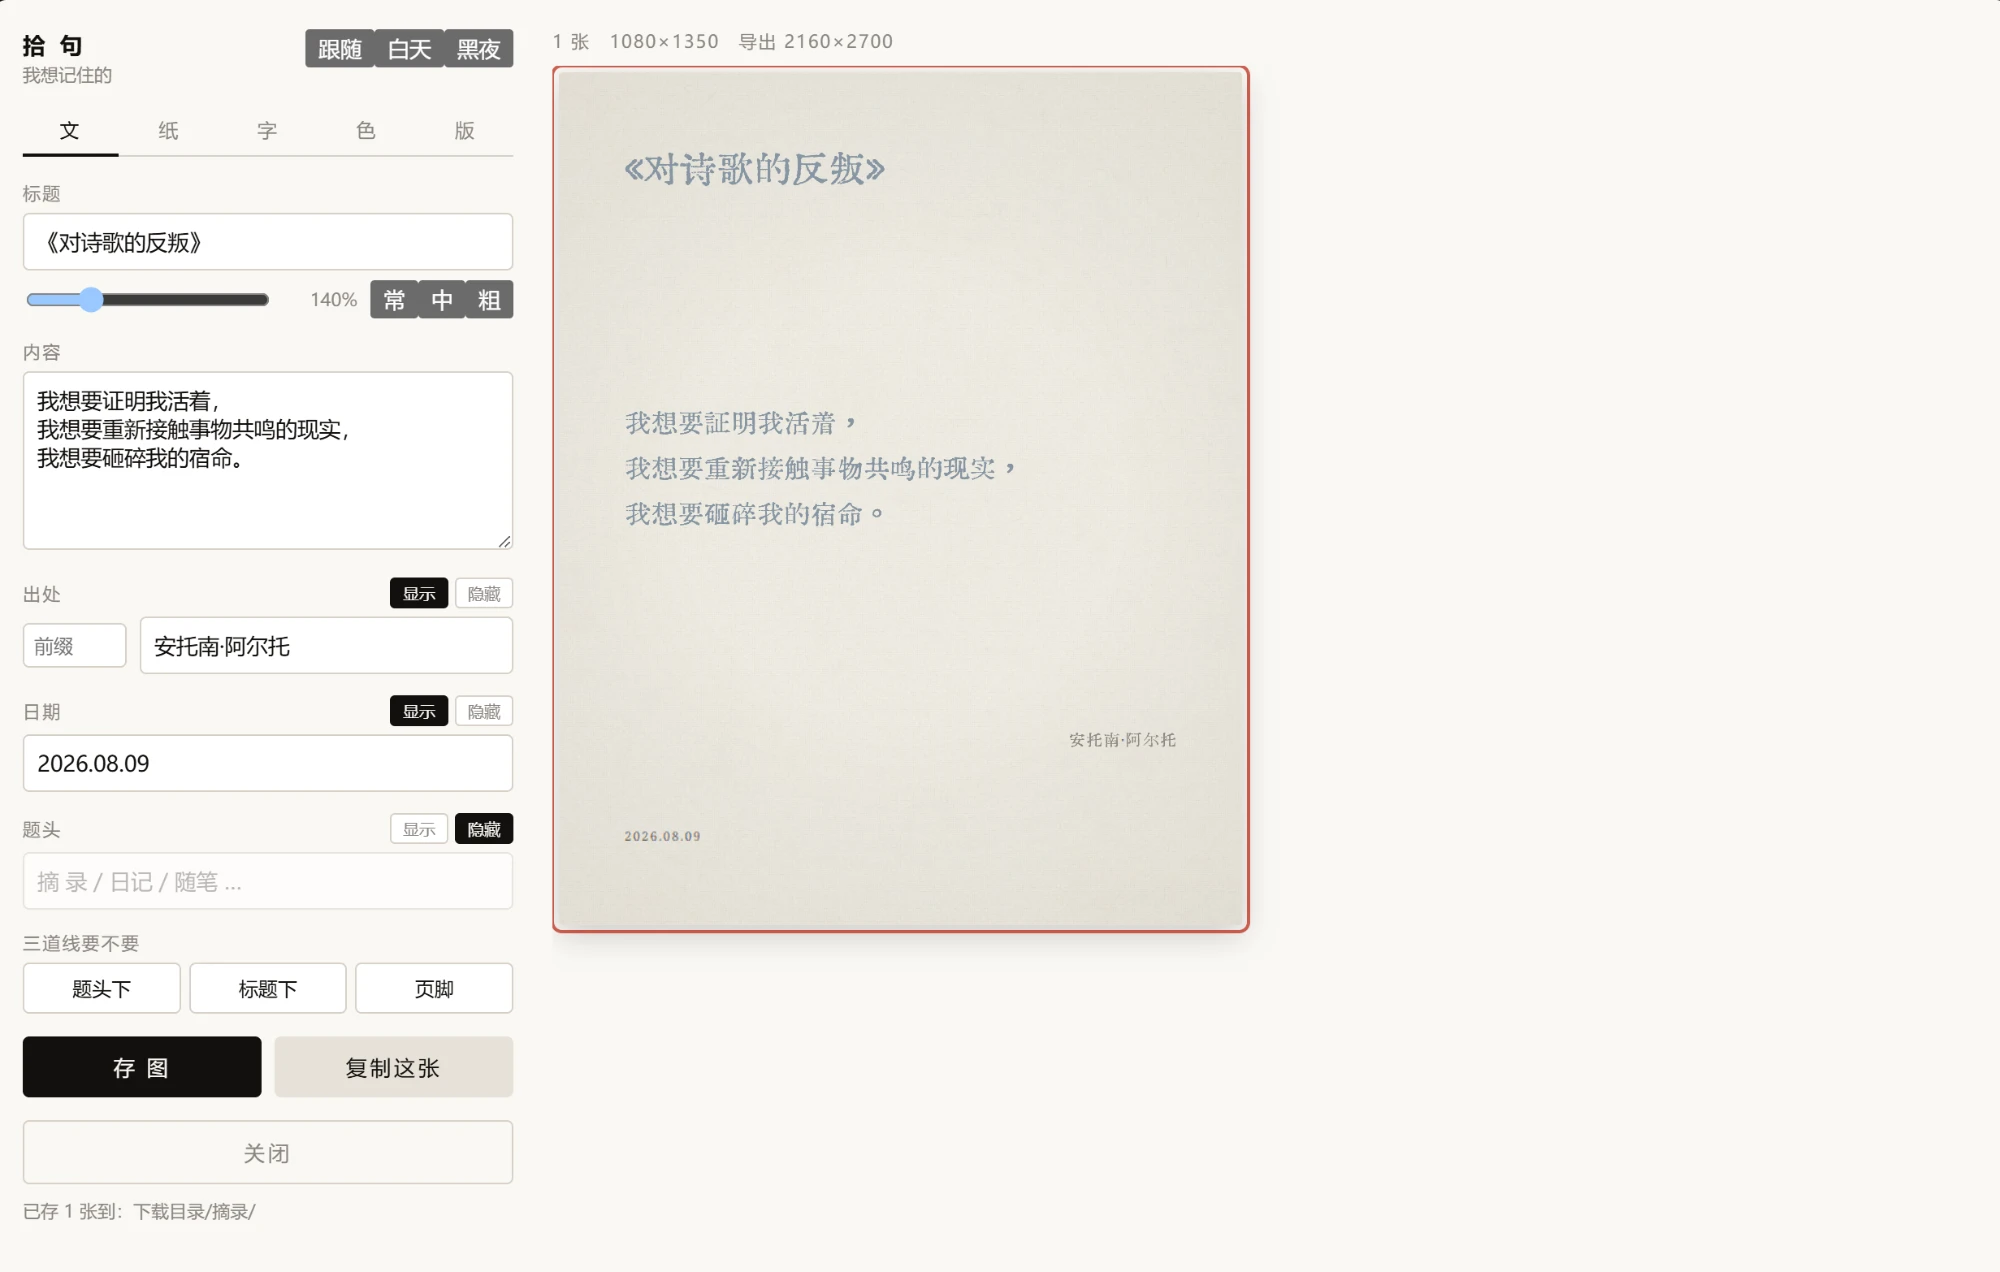
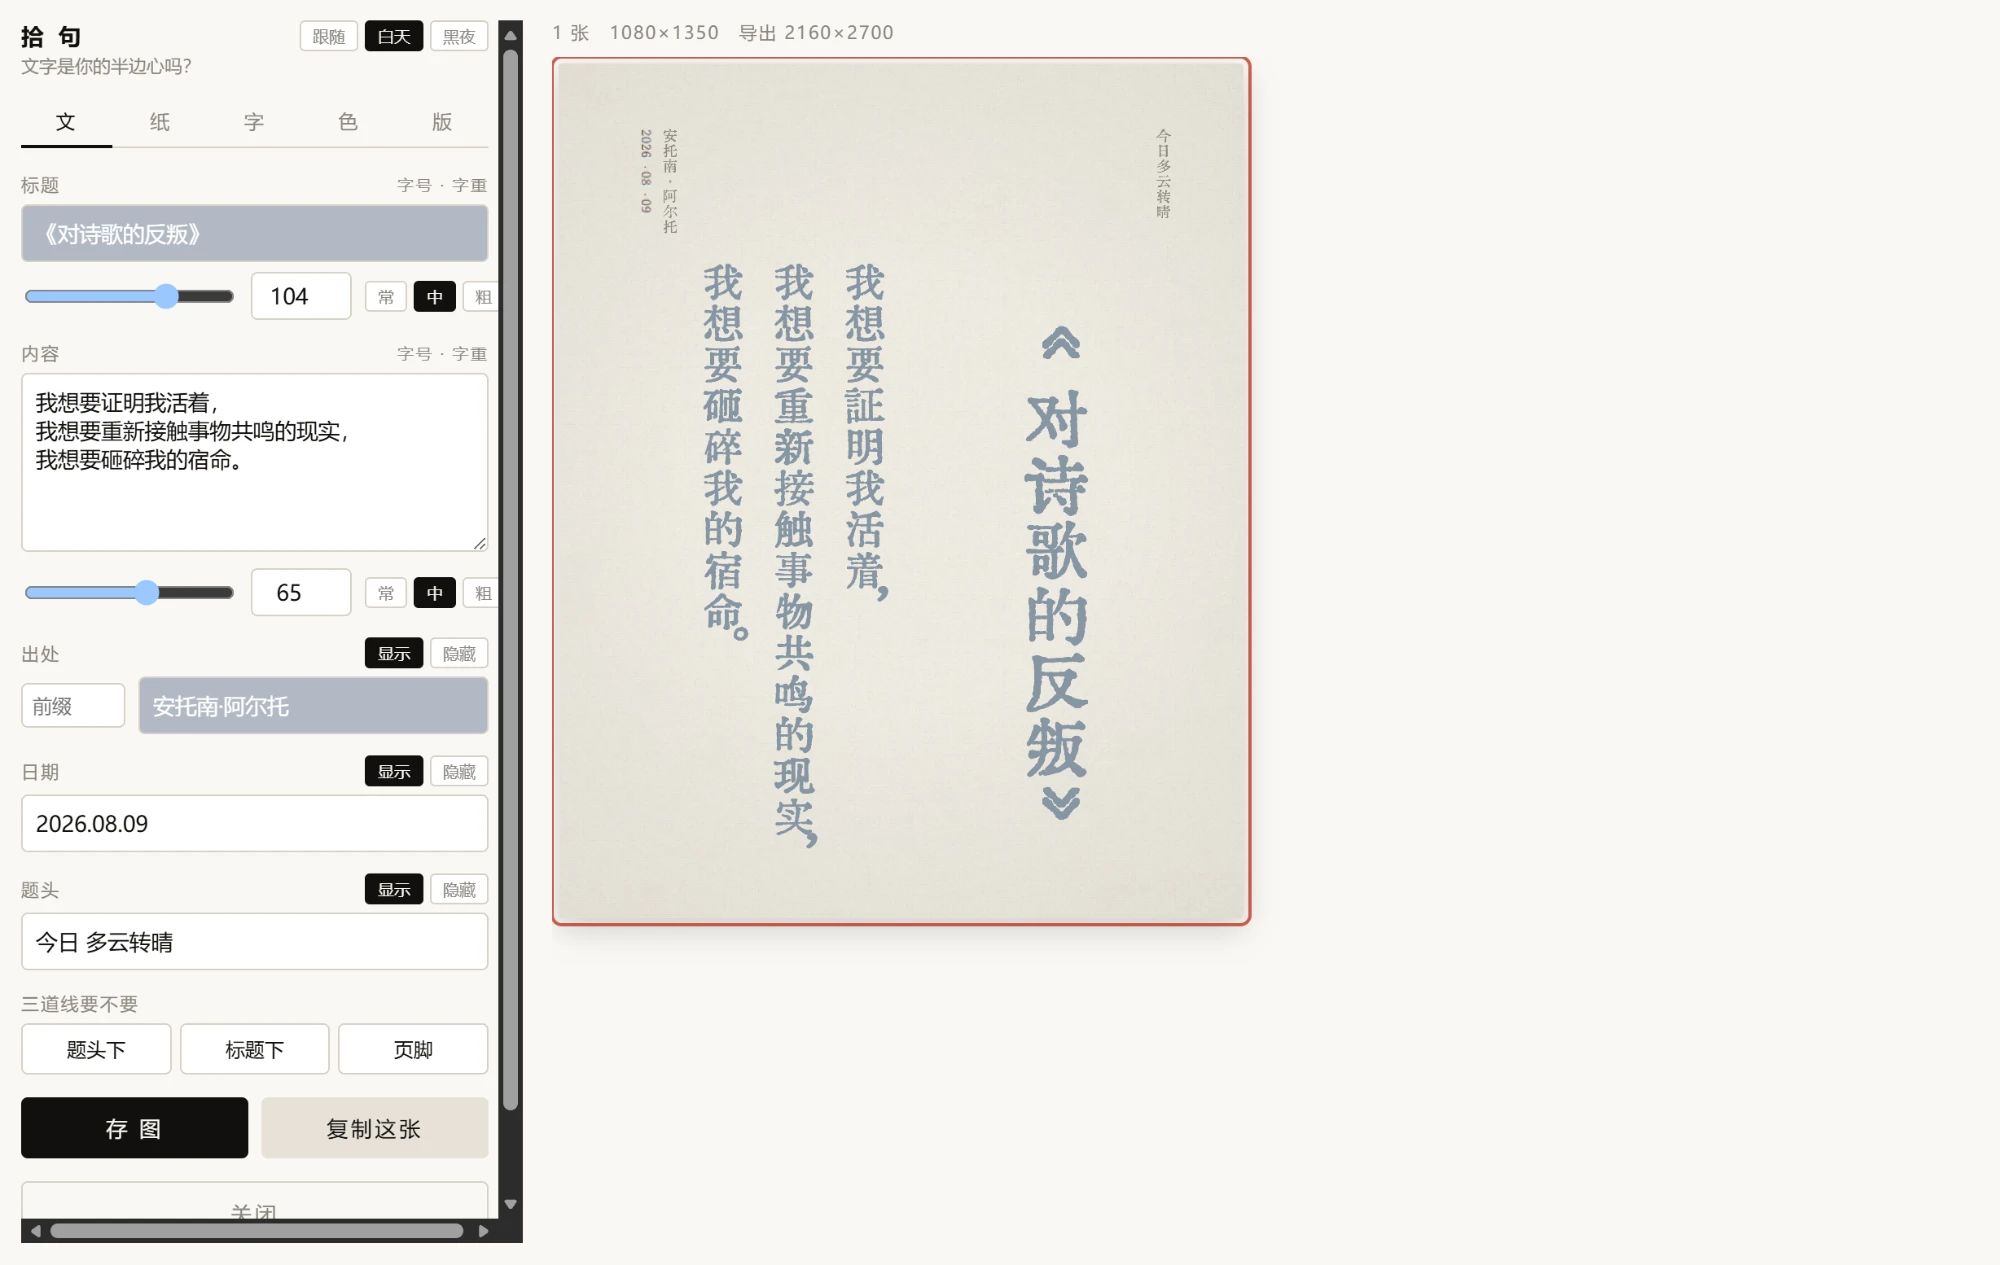
v0.16.2：iOS 上其实是「能用但记不住」，补上
她 iPhone 实机跑通之后问了一句「不选文字怎么空手唤出来」，顺着查出三件事。

【iOS 根本没在存设置】
Userscripts 只提供异步的 GM.getValue/GM.setValue，**没有**同步的
GM_getValue/GM_setValue。原来那两行直接调，每次都落进 catch 返回默认值 ——
表现就是「改了纸改了字，换一页全没了」，而且一声不吭。
现在探不到 GM 存储就退到 localStorage。⚠ 两者不等价：GM 存储跨网站共享，
localStorage 按站点分家、只有 ~5MB，README 和自检都如实写明。
顺带：素材包存不下时，先在内存里留住这一份（当次能用），文案照事实说
「换一页要重导」，不再谎报「以后不用再导」。

【手机上空手起稿没有入口】
没有 Alt 键，iOS 也没有脚本菜单（不支持 GM_registerMenuCommand）。
加三指轻点：网页用不到这个手势，iOS 系统的三指手势只在输入框里管撤销重做，
所以在输入框上让开。按久了、划开了都不算。

【「文」屏那两行顶破侧栏】
range 的 min-width 是 auto，撑在自己 129px 的固有宽度上不肯缩，
一行需要 297px 而侧栏只有 287px —— 底下冒出横向滚动条，还压住了「关闭」。
加 min-width:0。（她的截图里能直接看到那条滚动条。）

验证：新增 _selftest-ios.html，照 Userscripts 的能力打桩（只给异步 GM.*，
不给 GM_getValue/GM_setValue/GM_download/GM_registerMenuCommand）。
在它上面验到：三指轻点开白纸、设置写进 localStorage 且刷新后还在、
存图走 <a download> 兜底（在原型上打桩确认真的点了）。
桌面那边回归：仍走 GM 存储、没污染 localStorage、不溢出、存图正常，两边控制台零报错。

同批换上她重截的三张面板图（webp/2000px）。

diff --git a/shiju.user.js b/shiju.user.js
@@ -1,7 +1,7 @@
 // ==UserScript==
 // @name         拾句 · 网页摘录成图
 // @namespace    https://github.com/willwefind/shiju
-// @version      0.16.1
+// @version      0.16.2
 // @description  在任意网页上选中一段文字，把它排成纸上的摘录，存到本地。可换纸换字、横竖版、多页拆分。
 // @author       willwefind & Ciel
 // @match        *://*/*
@@ -52,8 +52,32 @@ const DEF = {
   subdir: '摘录',
   myPapers: [], myFonts: [],
 };
-const cfg    = k => { try { const v = GM_getValue(k); return v === undefined ? DEF[k] : v; } catch { return DEF[k]; } };
-const setCfg = (k, v) => { try { GM_setValue(k, v); } catch (e) { console.warn('[拾句] 存不下设置：', e.message); } };
+// 🔴 iOS 上的 Userscripts **没有**同步的 GM_getValue/GM_setValue（它只给异步的 GM.getValue）。
+//    照原样直接调，每次都落到 catch 里返回默认值 —— 表现是「改了纸改了字，换一页全没了」，
+//    而且一声不吭。探不到 GM 存储就退到 localStorage。
+// ⚠ 两者不等价：GM 存储跨网站共享，localStorage 按站点分家（每个网站要各设一次），
+//    而且只有 ~5MB，3MB 的信纸素材包多半塞不进去。这些都在自检里如实说。
+const hasGM = (() => {
+  try { return typeof GM_getValue === 'function' && typeof GM_setValue === 'function'; }
+  catch { return false; }
+})();
+const LSK = 'shiju:';
+// 存了什么就返回什么，没存过返回 undefined —— 「没存过」和「存了个默认值」得分得开
+const rawCfg = k => {
+  try {
+    if (hasGM) return GM_getValue(k);
+    const s = localStorage.getItem(LSK + k);
+    return s === null ? undefined : JSON.parse(s);
+  } catch { return undefined; }
+};
+const cfg = k => { const v = rawCfg(k); return v === undefined ? DEF[k] : v; };
+// 返回「到底存下没有」—— localStorage 会因为超配额而失败，失败了就得让人知道
+const setCfg = (k, v) => {
+  try {
+    if (hasGM) GM_setValue(k, v); else localStorage.setItem(LSK + k, JSON.stringify(v));
+    return true;
+  } catch (e) { console.warn('[拾句] 存不下设置：', e.message); return false; }
+};
 
 // 一次性迁移：标题字号从「正文的百分比」改成绝对像素。
 // 🔴 两种表示法并存必然对不上（同一件事写两套算法），所以迁完就把 titleScale 彻底扔掉，
@@ -61,11 +85,12 @@ const setCfg = (k, v) => { try { GM_setValue(k, v); } catch (e) { console.warn('
 (function migrateTitleSize(){
   const px = (base, scale) => Math.round((base === undefined ? DEF.fontSize : base) * scale / 100);
   try {
-    if (GM_getValue('titleSize') === undefined && GM_getValue('titleScale') !== undefined)
-      GM_setValue('titleSize', px(GM_getValue('fontSize'), GM_getValue('titleScale')));
-    const ps = GM_getValue('presets');
+    // 走 rawCfg/setCfg，别再直接摸 GM_* —— 那两个在 iOS 上根本不存在
+    if (rawCfg('titleSize') === undefined && rawCfg('titleScale') !== undefined)
+      setCfg('titleSize', px(rawCfg('fontSize'), rawCfg('titleScale')));
+    const ps = rawCfg('presets');
     if (Array.isArray(ps) && ps.some(p => p && p.style && p.style.titleScale !== undefined))
-      GM_setValue('presets', ps.map(p => {
+      setCfg('presets', ps.map(p => {
         if (!p || !p.style || p.style.titleScale === undefined) return p;
         const style = { ...p.style };
         style.titleSize = px(style.fontSize, style.titleScale);
@@ -1045,7 +1070,9 @@ input[type=text]:disabled{opacity:.5}
 .flist button i{font-style:normal;font-size:10px;opacity:.6;font-family:-apple-system,sans-serif;margin-left:auto}
 .sub{font-size:10px;color:var(--dim);margin:10px 0 4px;letter-spacing:.08em}
 .fs{display:flex;gap:8px;align-items:center}
-.fs input[type=range]{flex:1}
+/* min-width:0 —— 少了它，range 撑在自己 129px 的固有宽度上不肯缩，
+   「滑块＋数字框＋常中粗」这一行就顶破 308px 的侧栏，底下冒出一条横向滚动条。 */
+.fs input[type=range]{flex:1;min-width:0}
 .fs input[type=number]{width:62px;border:1px solid var(--line);border-radius:4px;padding:5px 6px;
      font:13px inherit;text-align:center;color:var(--fg);background:var(--field)}
 .fs .val{width:44px;text-align:right;font-size:11px;color:var(--dim)}
@@ -1636,7 +1663,10 @@ function openPanel(text){
           const r = new FileReader(); r.onload = () => res(r.result); r.onerror = rej; r.readAsText(files[0]);
         });
         const n = await installPack(text);
-        tipEl.textContent = `装好了：${n} 套（横竖各一张）。以后不用再导。`;
+        // 收尾这句必须照事实说 —— 存不下的时候「以后不用再导」就是句谎话
+        tipEl.textContent = installPack.persisted
+          ? `装好了：${n} 套（横竖各一张）。以后不用再导。`
+          : `这次能用：${n} 套。但存不下来（浏览器给脚本的空间不够装这么大的包），换一页要重导。`;
         buildPapers(); sync(); draw();
       } catch (e){ tipEl.textContent = '这个素材包读不了：' + e.message; }
     };
@@ -1878,7 +1908,11 @@ async function installPack(text){
   const data = JSON.parse(text);
   const sets = (data.sets || []).filter(s => s.key && (s.portrait || s.landscape));
   if (!sets.length) throw new Error('这个文件里没有可用的信纸');
-  setCfg('packs', sets); _packs = null; packImgs.clear(); meanCache.clear();
+  // 先把这一份记在内存里，再谈存不存得下 —— 存不下（localStorage 只有 ~5MB）也不该
+  // 让刚导进来的纸当场消失。存不下的话回头告诉用户「这次能用，下次还得再导」。
+  const kept = setCfg('packs', sets);
+  _packs = sets; packImgs.clear(); meanCache.clear();
+  installPack.persisted = kept;
   // 等图真的解码完再说「装好了」，不然点开一张纸是白的
   await Promise.all(sets.flatMap(s => ['portrait','landscape'].map(o => new Promise(r => {
     const im = packImg(s.key, o); if (!im || im.complete) return r();
@@ -1931,14 +1965,39 @@ document.addEventListener('keydown', e => {
   }
 }, true);
 
+// 三指轻点 = 手机上的 Alt+Q。
+// 🔴 手机没有 Alt 键，而 iOS 的 Userscripts **不支持 GM_registerMenuCommand**，
+//    也就没有脚本菜单可点 —— 空手起稿在手机上原本一个入口都没有。
+//    选三指：网页几乎用不到这个手势，iOS 系统的三指手势只在可编辑区域里管撤销/重做，
+//    所以在输入框里一律让开。
+let tri = null;
+document.addEventListener('touchstart', e => {
+  if (mask) { tri = null; return; }
+  const t = e.target;
+  const editing = t && (t.tagName === 'INPUT' || t.tagName === 'TEXTAREA' || t.isContentEditable);
+  tri = (e.touches.length === 3 && !editing)
+    ? { t: Date.now(), x: e.touches[0].clientX, y: e.touches[0].clientY } : null;
+}, true);
+document.addEventListener('touchend', e => {
+  if (!tri || e.touches.length) return;          // 还有手指没抬起来，等
+  const { t, x, y } = tri; tri = null;
+  if (mask || Date.now() - t > 700) return;      // 按久了就不算「轻点」
+  const c = e.changedTouches[0];
+  if (c && Math.hypot(c.clientX - x, c.clientY - y) > 40) return;   // 划走了也不算
+  if (pill) pill.hidden = true;
+  openPanel(String(getSelection() || '').trim());
+}, true);
+
 // 自检：脚本要么大声说话，要么就该被看见。别再出现「选中没反应，但不知道死在哪」。
 function selfCheck(){
   alert([
     '拾句 自检', '',
-    '脚本版本：0.16.1',
+    '脚本版本：0.16.2',
     `当前页面：${location.href.slice(0, 70)}`,
     `在 iframe 里：${window.top !== window.self ? '是（脚本声明了 @noframes，不在 iframe 里跑）' : '否'}`,
-    `GM_download：${typeof GM_download === 'function' ? '有' : '没有（油猴没授权？）'}`,
+    `GM_download：${typeof GM_download === 'function' ? '有' : '没有 —— 走浏览器自己的下载，一样能存图'}`,
+    `设置存在哪：${hasGM ? 'GM 存储（所有网站共用一份）' : '这个网站自己的 localStorage（跨网站不共享，得每个站各设一次）'}`,
+    `脚本菜单：${typeof GM_registerMenuCommand === 'function' ? '有' : '没有（iOS 的 Userscripts 就没有）—— 空手起稿请用三指轻点'}`,
     `面板容器：${host && host.isConnected ? '已挂上' : '还没挂（选中文字才会建）'}`,
     `你现在选中了：${String(window.getSelection() || '').trim().slice(0, 24) || '（什么都没选）'}`,
     `系统里能用的字：${FONTS.filter(fontAvailable).map(f => f.name).join('、')}`,
@@ -1946,7 +2005,7 @@ function selfCheck(){
     `你自己加的纸：${cfg('myPapers').length} 张　字：${cfg('myFonts').length} 款`,
     '',
     '看到这个框，说明脚本在这一页是活的。',
-    '不用先选文字：按 Alt+Q，或者用油猴菜单里的「写点什么」，直接开一张白纸。',
+    '不用先选文字就开一张白纸：电脑按 Alt+Q 或用油猴菜单；手机三指轻点屏幕。',
     '选中文字没反应，多半是这页在你装脚本之前就开着了 —— 按 F5。',
     '字体装了却还是灰的 —— 要完全退出浏览器再开，Chrome 系不热加载字体列表。',
   ].join('\n'));
@@ -1968,7 +2027,7 @@ try {
   });
 } catch {}
 
-console.log('[拾句] 0.16.1 已在这一页启动。选中文字会冒出「摘」；不选也行，按 Alt+Q 开一张白纸。');
+console.log('[拾句] 0.16.2 已在这一页启动。选中文字会冒出「摘」；不选也行 —— 电脑按 Alt+Q，手机三指轻点。');
 window.__shiju = { planPages, renderPage, makePaper, wrap, paginate, buildItems, shade, strokeFor, inkColorOf,
                    hasFont, fontStack, cjkStack, fontAvailable, resolveFont, titleBlock, chrome,
                    PAPERS, FONTS, LATIN, INKS, SIZES,

diff --git a/README.md b/README.md
@@ -97,10 +97,11 @@ Claude、ChatGPT、小红书、SillyTavern、任何网页都能用。
 
 ## 装在手机上（iPhone / 安卓）
 
-> ⚠ **这一节没有在真手机上走过。** 面板的手机版排布是在电脑浏览器的手机模拟下量出来的
-> （375px 宽：预览图在上、控制在下、整张卡片一眼看得全、不横向溢出、手指能拖动整块位移）。
-> 装脚本那几步照的是各家脚本管理器自己的文档。
-> 你要是在真机上走通了或者卡住了，欢迎来提 issue，我们照实改这一节。
+> ✅ **iPhone 实机走通过**（Safari + Userscripts：装脚本 → 刷新 → 选中文字 → 出图）。
+> ⚠ **安卓没有实机验过**，那一节照的是各浏览器自己的文档。
+> 面板的手机版排布是在电脑浏览器的手机模拟下量的（375px：预览在上、控制在下、
+> 整张卡片一眼看得全、不横向溢出、手指能拖动整块位移）。
+> 你要是卡住了，欢迎来提 issue，我们照实改这一节。
 
 ### iPhone / iPad
 
@@ -129,11 +130,23 @@ Claude、ChatGPT、小红书、SillyTavern、任何网页都能用。
 >
 > Userscripts 需要 **iOS 15.1 以上**。
 
-**4. 用**：随便打开一个有正文的网页 → **长按选中一段文字** → 冒出「摘」→ 点它。
-手机上没有 `Alt` 键，想空手写就用 **ᴀA → Userscripts → 拾句：写点什么**。
+**4. 装完刷新一次页面**（实测过，不刷新那一页是没有脚本的）。
 
-**5. 存图**：点「存 图」之后图片进 Safari 的下载（右上角箭头）或「文件」App。
+**5. 用**：随便打开一个有正文的网页 → **长按选中一段文字** → 冒出「摘」→ 点它。
+不想先选文字、直接开一张白纸的话：**三根手指在屏幕上轻点一下**。
+
+**6. 存图**：点「存 图」之后图片进 Safari 的下载（右上角箭头）或「文件」App。
 也可以在预览图上**长按 → 存储到照片**。
+
+> ⚠ **iOS 上有两处和电脑不一样，是 Userscripts 本身的限制，不是脚本偷懒：**
+>
+> 1. **设置只在当前这个网站记得住。** 电脑上油猴的存储是全网共用的，
+>    纸、字、墨设一次处处通用；iOS 上退回浏览器的本地存储，**按网站分家** ——
+>    在 A 站设好的纸，换到 B 站要再设一次。
+> 2. **信纸素材包（3MB 多）多半存不下**，浏览器给每个网站的空间只有 ~5MB。
+>    导进去当次能用，换一页就没了 —— 真存不下的时候面板会明说，不会假装存好了。
+>
+> 想知道自己这边是哪种，看下一节的**自检**，它会写明「设置存在哪」。
 
 ### 安卓
 
@@ -174,11 +187,14 @@ Claude、ChatGPT、小红书、SillyTavern、任何网页都能用。
 | 怎么做 | 什么时候用 |
 |---|---|
 | **选中一段文字** → 旁边冒出 **「摘」** → 点它 | 最常用，手机上也是这条 |
-| **选中一段文字** → 按 **`Alt + Q`** | 不想动鼠标（**只有电脑上有**，手机没有 Alt 键） |
-| **什么都不选** → 按 **`Alt + Q`**；或点**篡改猴图标 → 拾句：写点什么** | 开一张白纸自己写 |
+| **选中一段文字** → 按 **`Alt + Q`** | 不想动鼠标（电脑） |
+| **什么都不选** → 按 **`Alt + Q`**；或点**篡改猴图标 → 拾句：写点什么** | 开一张白纸自己写（电脑） |
+| **什么都不选** → **三根手指在屏幕上轻点一下** | 开一张白纸自己写（**手机**） |
 
-> 手机上没有 `Alt` 键，空手起稿走**脚本管理器的菜单**那条：
-> iOS 是 **ᴀA → Userscripts →「拾句：写点什么」**，安卓在浏览器的脚本菜单里。
+> **手机上为什么是三指？** 手机没有 `Alt` 键；而 iOS 的 Userscripts **没有脚本菜单**
+> （它不支持 `GM_registerMenuCommand`），所以「不选文字直接开」原本一个入口都没有。
+> 三指轻点是挑出来的：网页几乎用不到这个手势，iOS 系统的三指手势也只在输入框里管撤销重做
+> —— 所以在输入框上点不会抢。轻点就行，按住不放或者划开都不算。
 
 **内容框本来就是个自由文本框**，所以「摘录」只是它的一种用法 ——
 写日记、写随笔、抄一段想留下的字，都可以直接在里面打。
